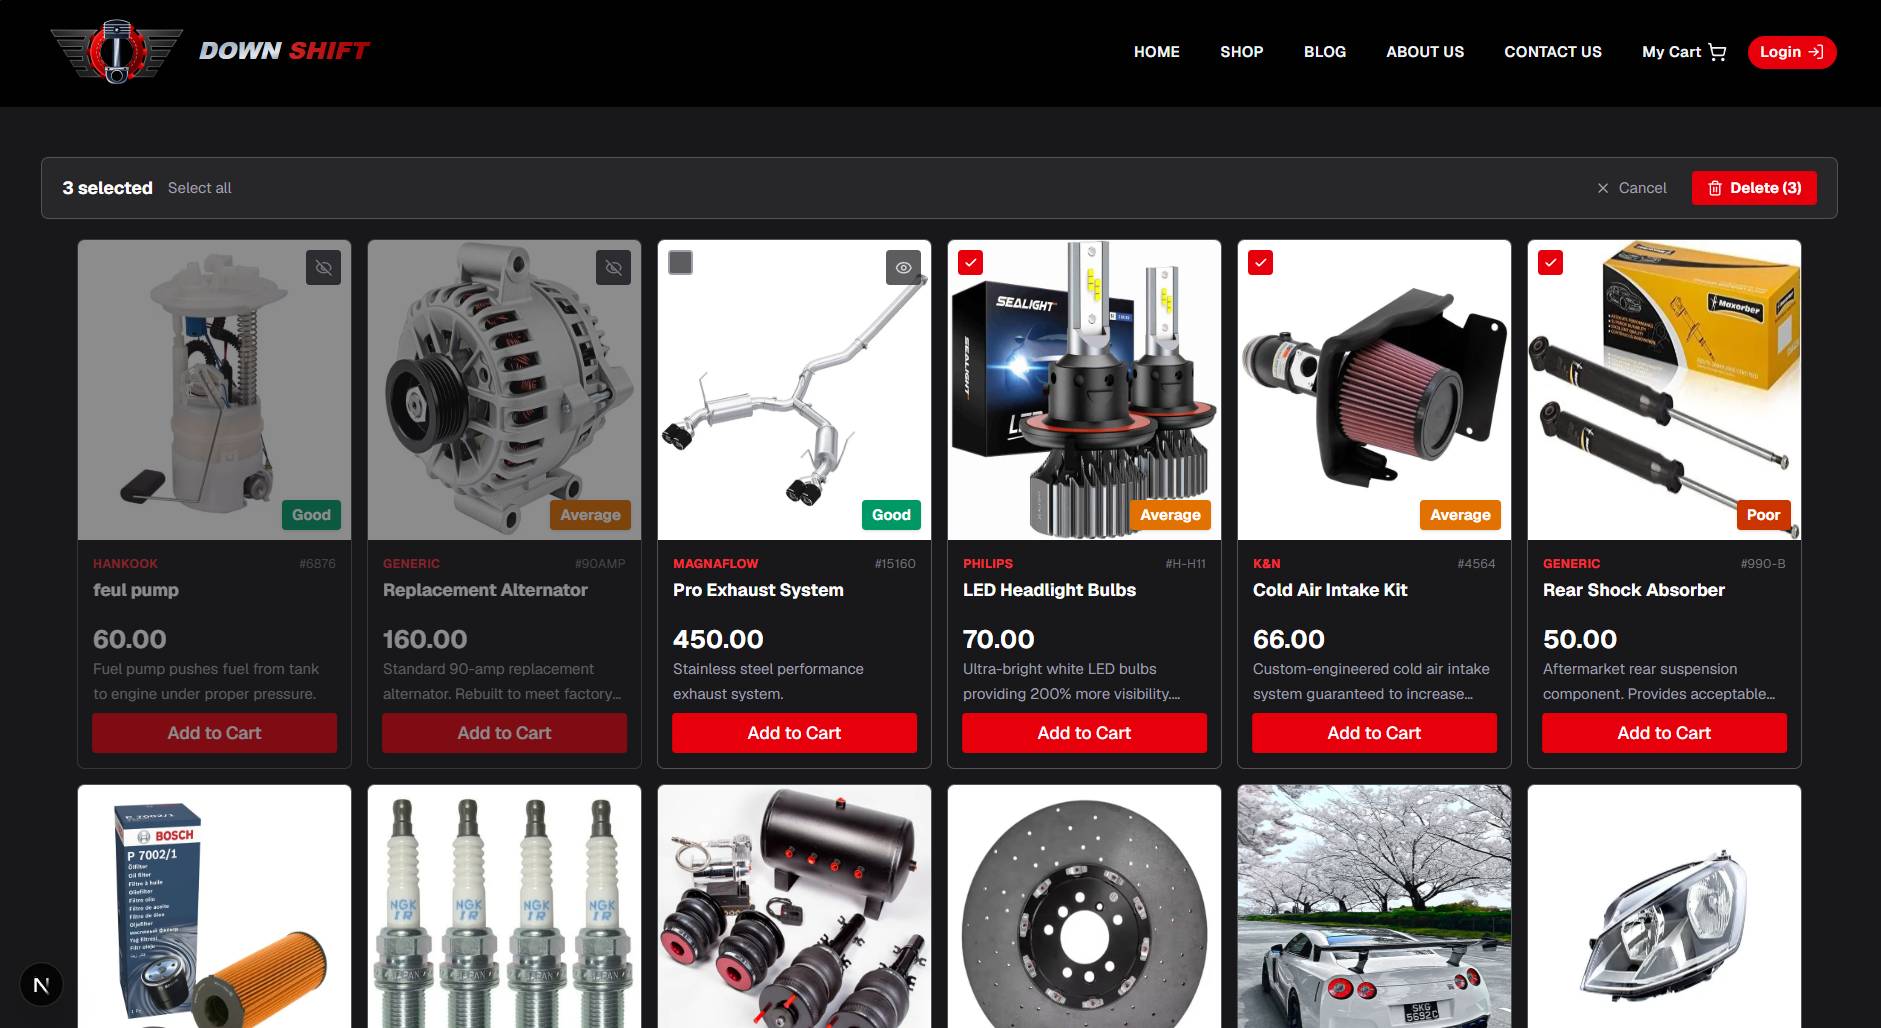
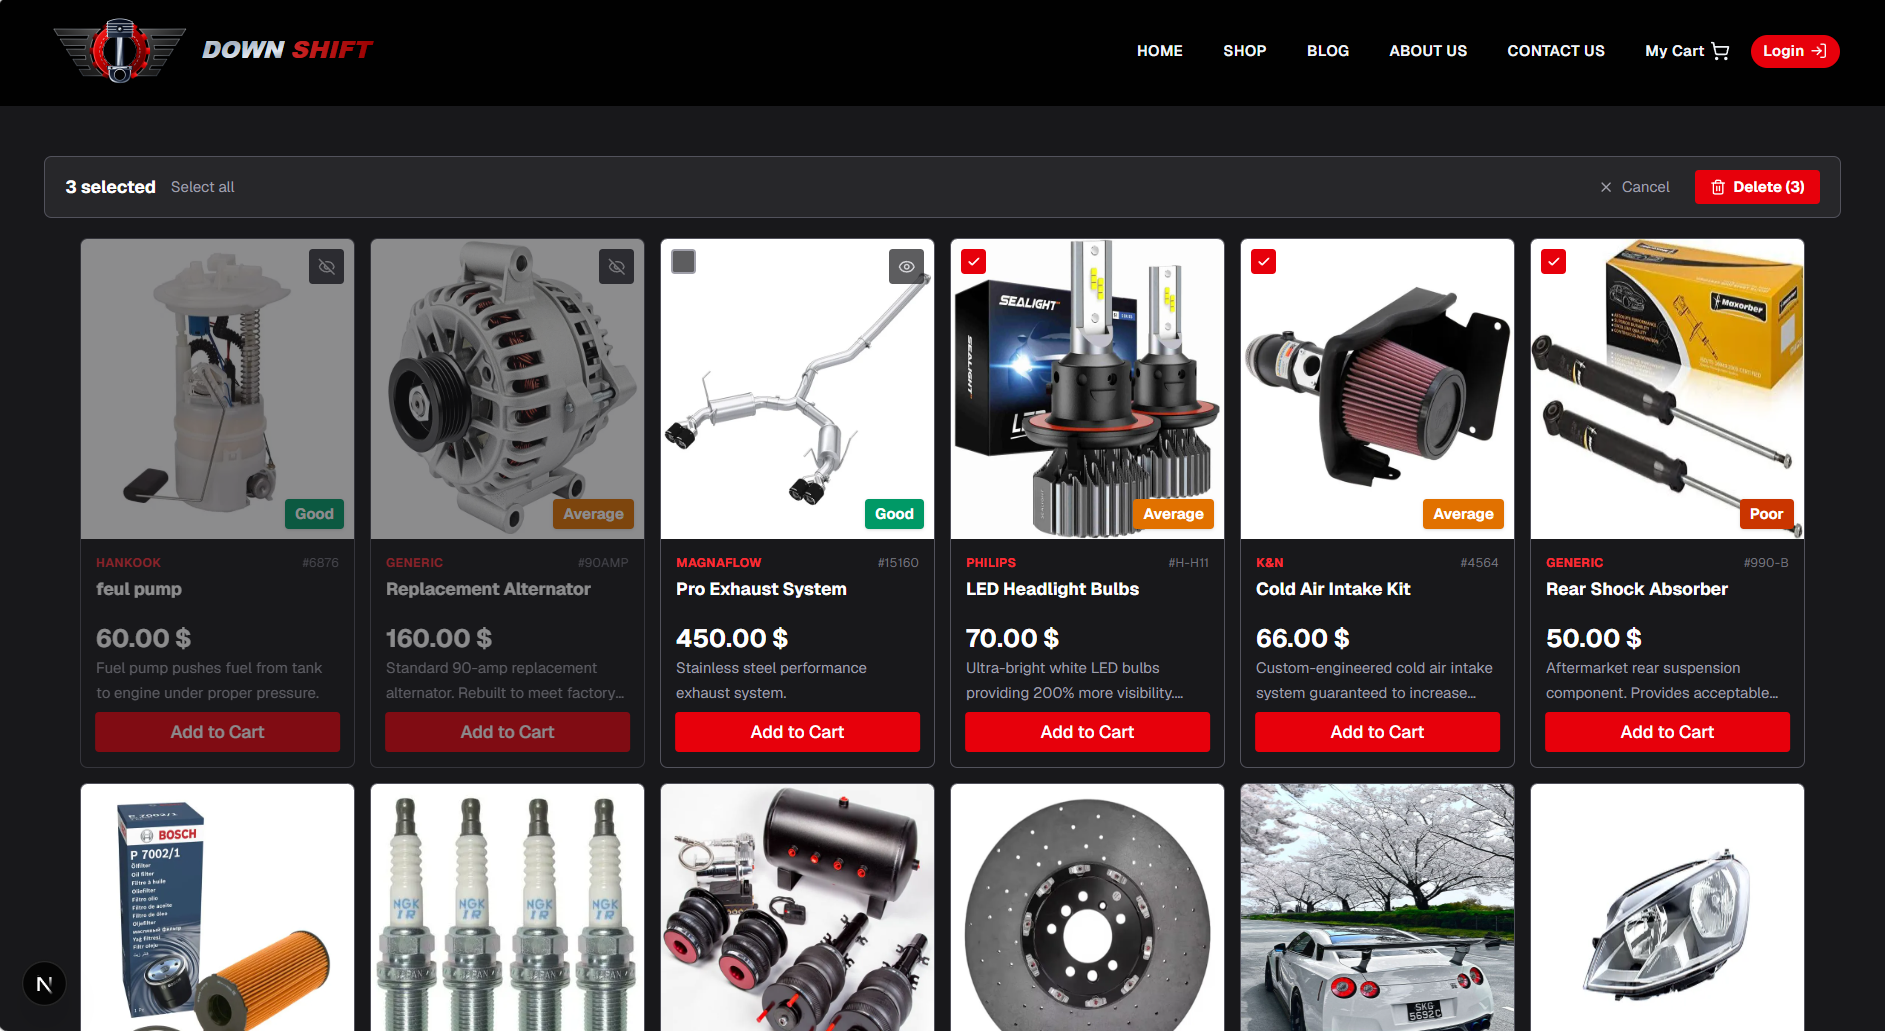
aa

diff --git a/components/itemDisplay/section.tsx b/components/itemDisplay/section.tsx
@@ -94,7 +94,6 @@ export default function({ parts }: { parts: PartDetails[] }) {
     Poor: "bg-orange-700",
   };
 
-  // تأكد من توافق جودة المنتج مع الستايلات (مثلا "Original" قد تحتاج إضافتها هنا)
   const getQualityStyle = (quality?: PartQuality | string) =>
     quality && QUALITY_STYLES[quality as PartQuality] 
       ? QUALITY_STYLES[quality as PartQuality] 
@@ -214,8 +213,9 @@ export default function({ parts }: { parts: PartDetails[] }) {
                     {part.name}
                   </h1>
 
-                  <div className="mt-1">
+                  <div className="mt-1 flex items-center">
                     <p className="text-white text-xl font-bold">{part.price.toFixed(2)}</p>
+                    <p className="text-white text-xl font-bold ml-1">$</p>
                   </div>
 
                   {/* Description - تم تعديله ليسمح بسطرين وإعطائه مساحة أفضل */}